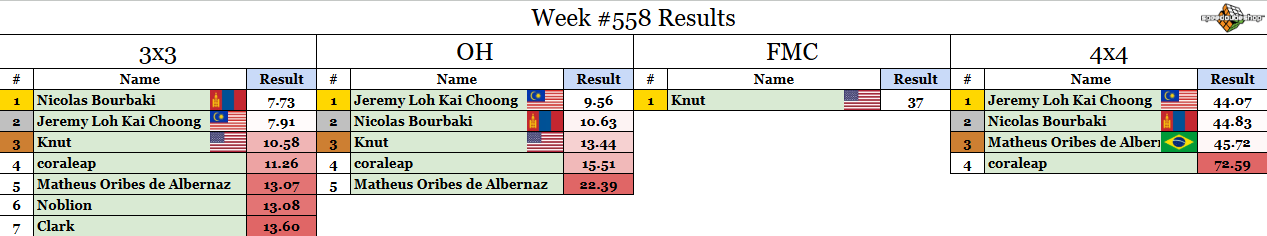
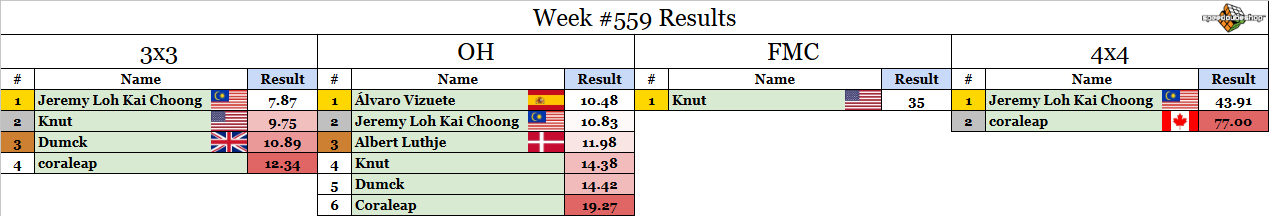
weekly comp update

diff --git a/src/pages/Misc.tsx b/src/pages/Misc.tsx
@@ -239,7 +239,7 @@ export default function MiscTabs() {
                             </Link>
                         </li>
                         <li>
-                            Cordelia:{" "}
+                            Cordelia Hu:{" "}
                             <Link href="https://www.youtube.com/@coraleap" target="_blank" rel="noopener">
                             YouTube
                             </Link>

diff --git a/src/weeklycomp/post.md b/src/weeklycomp/post.md
@@ -1,9 +1,9 @@
-## Weekly Competition #559 
+## Weekly Competition #560 
  
  This weekly competition is proudly sponsored by SpeedCubeShop.com 
  One competitor will be selected at random to receive a $5 SCS gift card! 
  
- Congrats to last week's winner by a random draw: **Jeremy Loh Kai Choong**. DM me for the prize. 
+ Congrats to last week's winner by a random draw: **Albert Luthje**. DM me for the prize. 
  
  Check whether or not you participated this week yet at [https://bit.ly/RMSWeeklyCompSummary](https://bit.ly/RMSWeeklyCompSummary)  
  
@@ -17,28 +17,29 @@
  7. The comp runs until Sunday 5pm Eastern time (more or less). Enter your times using the forms links below. 
  
 ### 3x3: [Submission Form](https://forms.gle/H5xoCWvGKnZ92fQt8) 
- 1. U' F2 D' U' L2 D B2 U' B2 F2 D' U' B' U' R D F R' U2 L2 R' 
- 2. D L B2 F2 U R2 B2 R2 B2 D' B2 U' R2 U2 B U' L' R2 F' L2 
- 3. R F B L B D F' U F2 U2 L U2 F2 U2 L' B2 U2 R' B2 
- 4. F2 D' F2 D B2 L2 U' L2 F2 D' U' B2 F L U' F' U' B' D2 R 
- 5. D' R D' F2 U L2 D B2 R2 D2 F2 U2 B U B F R2 U2 L' B 
+ 1. D' F' L' F2 U2 L2 F2 R' U2 L B2 R F2 D2 U' R' B F R' B' U 
+ 2. F' U2 F2 L2 F U2 L2 D2 F2 R2 F' D R' U' B2 L R F' L2 R U 
+ 3. D' R B' R' D B U B U2 R2 F2 U2 B' D2 B D2 L2 F2 R U' 
+ 4. U' L2 B2 L2 D' R2 U2 B2 D' F2 L2 F D2 F' R' B F U' B2 L B' 
+ 5. U F2 U2 R2 D' B2 R2 U L2 D2 L2 R F' D R2 D2 U L2 R' B 
  
 ### OH: [Submission Form](https://forms.gle/UgRLW3K1d5KkMGfM9) 
- 1. B' L' U R' B' U' F R' F2 D2 R' B2 D2 R2 B2 L D2 R2 D L' 
- 2. F2 D2 L2 D F2 R2 D' F2 U B2 D' R F' D' B R D' L B' R2 B 
- 3. L' U R B2 L' U2 L' D2 U2 F2 L2 F2 R F' L2 F' U' F' D' R2 
- 4. B' L2 D2 F2 D2 U F2 R2 D2 L2 U B2 L2 B U' F2 R' D F U B 
- 5. L F R2 B2 U' B2 L2 D2 U2 B2 D F R B2 L F' U' R' F' 
+ 1. L2 U2 B2 U2 F2 L2 U R2 U' L2 B L' F2 L' U' L F R U2 F L2 
+ 2. B2 D' F2 D2 L' D2 L2 U2 R B2 F2 R B2 D2 B' R F2 U' R B' L 
+ 3. F L B U2 F2 B L F2 U' R2 D L2 U2 R2 L2 B2 R2 F2 D2 R' 
+ 4. L B2 R2 D' L2 U' F2 L2 B2 F2 D2 F2 L F U' L2 R' B L U' B2 
+ 5. U' B2 U' B2 F2 U' F2 R2 B2 U B2 D2 R B L R' D2 B2 U' L F2 
  
 ### FMC: [Submission Form](https://forms.gle/1P9VUgZmA1pibwvL9) 
- 1. R' U' F U2 F D2 U2 R2 B' D2 U2 R2 B L2 B' R D2 B R' F' U R2 D2 L' R' U' F 
+ 1. R' U' F B2 L' U2 F2 D2 U2 F2 L U2 L' F2 L2 U B F' L' U' R' B2 U2 F R' U' F 
  
 ### 4x4: [Submission Form](https://forms.gle/bHNjncvEcPvFWBP2A) 
- 1. U2 F R' B2 D' F' B' D2 F' U B2 U2 L2 U L2 U2 F2 U' L2 D Fw2 U' L Uw2 L U' L2 Rw2 Uw2 R F2 L D F Fw U2 B Fw Rw D Uw' Fw' Rw' Fw Uw' 
- 2. R F R2 D' F B2 R' U2 F2 D' R2 F2 U2 L2 F2 D L2 D Uw2 F2 Fw2 L' U2 F' Rw2 Fw2 U2 R2 B' Uw' L2 B2 D2 Uw B' Rw B2 R' Rw D Uw' R' 
- 3. D2 R2 U2 L2 F2 L2 D B2 U L2 U' L D' L' U B L' U2 F2 Uw2 F2 B R Fw2 U2 D2 Uw2 R' F R' Uw2 L' Uw R2 F' L' U Uw B Fw R2 L Rw2 F2 Fw 
- 4. F' R2 U D2 L' F2 D2 F' B2 R2 F2 D R2 D2 R2 L2 U B2 D L' Rw2 Uw2 B D Uw2 B D2 Fw2 D2 R2 Uw2 B L Rw' B2 U' B2 Uw Rw Fw' Uw F Uw2 Fw2 
- 5. L' U F U2 L2 D' F' L' B2 R2 D' L2 F2 U' B2 D' F2 U2 L2 F Fw2 Uw2 B' R B2 R2 Uw2 R F B' Rw2 Uw2 R' Uw R2 U D2 F' B2 Fw R2 Rw2 Fw D2 Uw Rw' 
+ 1. R' B2 R' F2 L D2 F2 R' B2 L2 F2 D2 F' L' U D2 F B U2 R2 Uw2 L B' Uw2 Fw2 R B2 Rw2 F' R2 B R Uw' B' U' R D' Rw B2 Uw' L2 U' B2 Fw 
+ 2. L2 U2 F' B2 R2 B2 D B' R U2 L' F2 B2 L' D2 L D2 L' U2 D' Fw2 D' L' Fw2 Uw2 Rw2 F2 U Rw2 Fw2 L F2 B2 Fw' Rw2 B U2 B2 Uw Fw' L Fw2 U' R' L Rw 
+ 3. U B U2 F D2 R2 F2 B R2 U' F' R' L' F L D' F Rw2 F Fw2 Rw2 B2 D F2 L2 F U' D' Fw2 D' Rw' D' F2 Rw' D2 L' Uw B' Fw' Uw R' B U2 
+ 4. U' D' F' B2 L2 U' L' F2 B R2 U2 F' D2 F R2 D2 B2 U2 D' F2 Uw2 L F' B2 Fw2 R' L' Fw2 R' U2 D2 Uw' L2 F2 D' Uw B2 Fw' R Rw' B2 U Rw' Fw' 
+ 5. U' L2 D' R2 U' B2 D R2 U' F2 B2 U F' D' R D' B2 R' U R' F Fw2 U Uw2 Rw2 U R B2 L' U Fw2 R2 U Fw' R' F' D Fw R2 U Rw' D2 Fw L2 Fw2 R2 
  
 ### Winning FMC solutions from last week: 
- 1. Knut, 37 moves: [SOLUTION](https://bit.ly/4o9mOLL)
+ 1. Knut, 35 moves: [SOLUTION](https://bit.ly/4pc3LSs)
+ 
